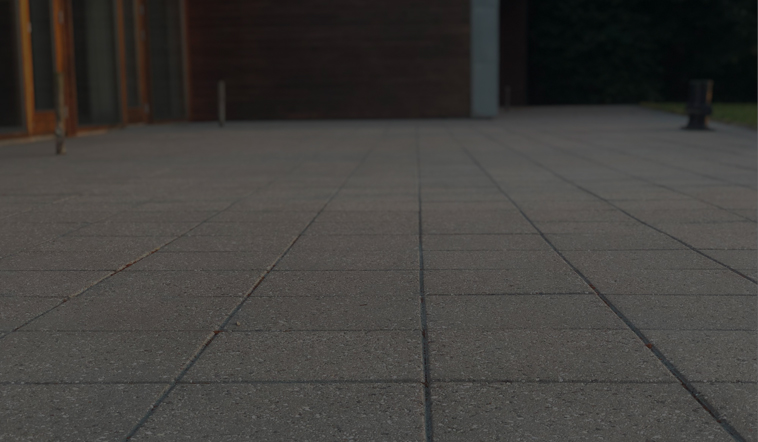
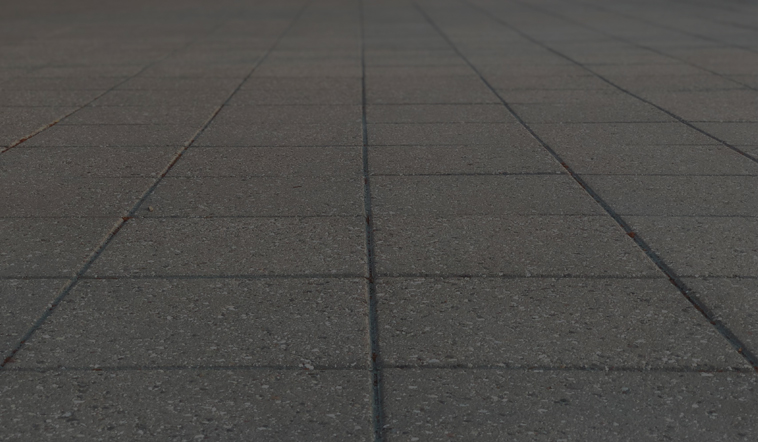
.

diff --git a/css/fliserens.scss b/css/fliserens.scss
@@ -6,12 +6,14 @@
 .booksektion {
   width:100%;
   height: 55vh;
-  background: #707070;
+  background: url(../image/fliseanbefale.jpg);
   display: flex;
   justify-content: center;
   align-items: center;
   color: white;
   margin-bottom: 60px;
+  background-size: cover;
+  background-repeat: no-repeat;
 }
 .bookosek{
   text-align: center;
